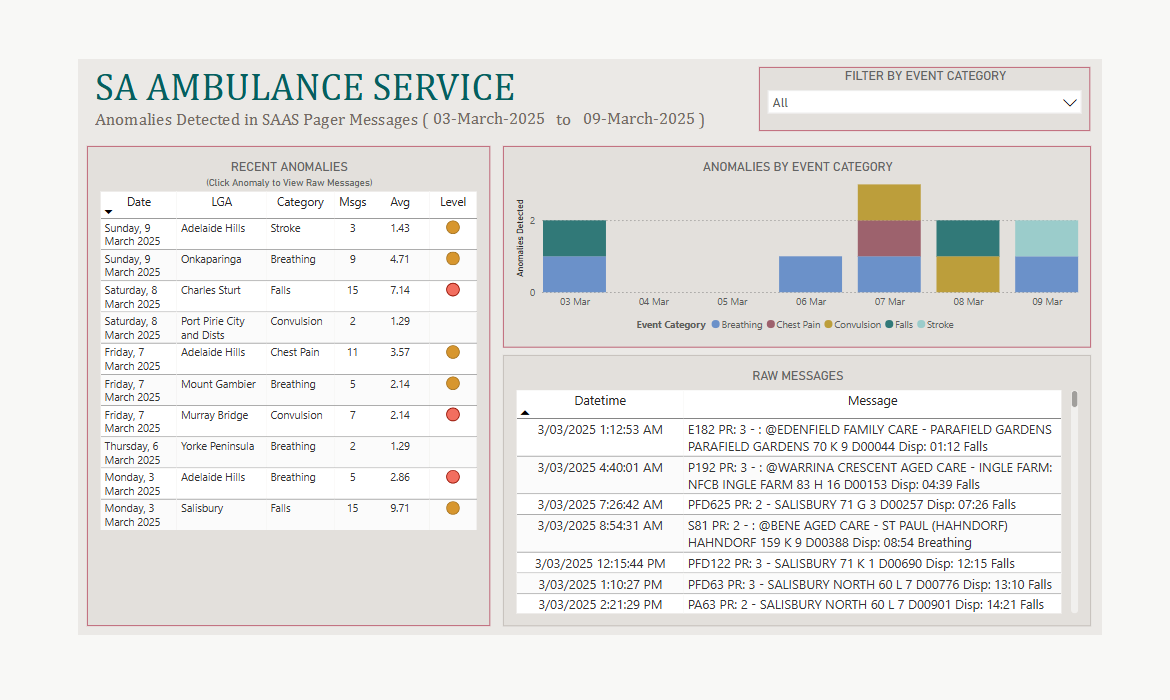
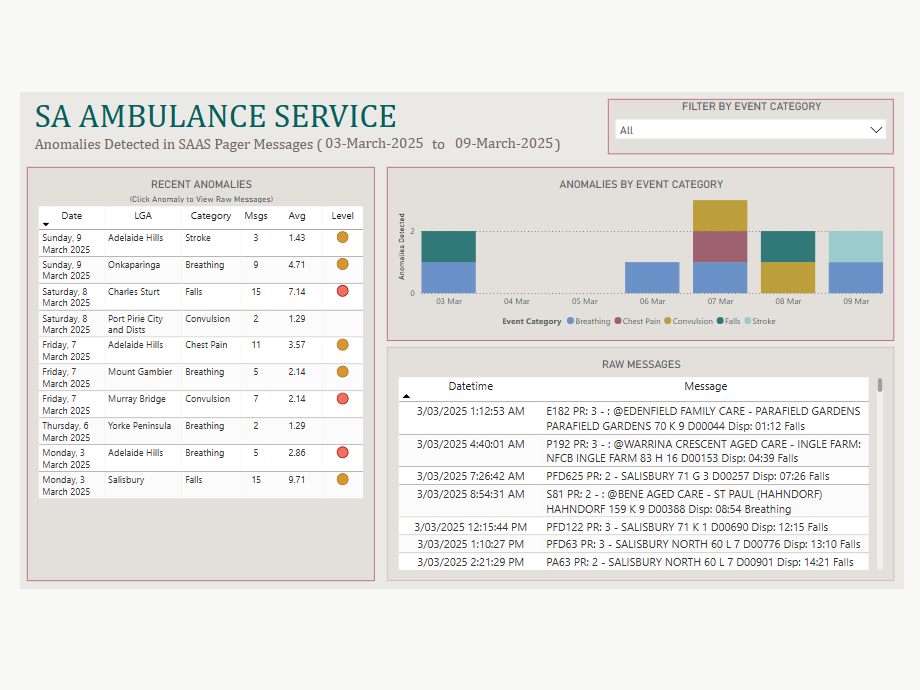
Add anomaly detection dashboard project

Changed region(s): [[0.0304, 0.0913, 0.9739, 0.913]]

diff --git a/_posts/2025-03-10-SAAS-Callout-Anomalies-Dashboard.md b/_posts/2025-03-10-SAAS-Callout-Anomalies-Dashboard.md
@@ -1,0 +1,65 @@
+---
+layout: post
+title: SA Ambulance Service Anomaly Dashboard
+image: "/posts/SAAS-anomaly-dashboard.png"
+tags: [Dashboard, Power BI, Data Visualisation, Anomaly Detection, Isolation Forest]
+---
+
+## Project Overview
+The **SA Ambulance Service Anomalies Dashboard** is a Power BI dashboard that highlights **potential** anomalies detected over the previous 7 days. Behind the scenes, we use a Machine Learning algorithm called an "Isolation Forest" for detecting anomolous spikes in daily callouts per Local Government Area, and type of event (eg, "Falls", "Chest Pain", "Breathing"). The aim of this dashboard is to quickly show recent anomalies in South Australia, and the raw pager messages which triggered/contributed to the anomaly.
+
+---
+
+## The Dashboard
+<iframe title="seven-day-anomaly-dashboard" width="1090" height="650" src="https://app.powerbi.com/view?r=eyJrIjoiZTg4MDM1NGEtOWQ5ZS00ZWFjLWEzODktOWM1ZmZjZjFmNzI4IiwidCI6ImMwNmY1NDJlLTQ3NWEtNDUzMy1iMTM1LTVkMjI3MDk4ZTViYyJ9" frameborder="0" allowFullScreen="true"></iframe>
+
+---
+
+## Target Users & Audience
+This dashboard serves a wide range of stakeholders, including:
+- **Governmental Agencies** - for resource allocation and emergency response planning.
+- **Local Governments** - to assess healthcare demands and infrastructure needs.
+- **Insurance Companies & Health Providers** - for risk assessment and policy adjustments.
+- **General Public** - for awareness of emergency response trends in their local community.
+
+---
+
+## Business Value & Real-World Impact
+### **1. Enhanced Decision-Making & Operational Efficiency**
+- **Timely Insights**: Unlike traditional health reports that rely on aggregated and delayed data, this dashboard provides near real-time **visibility into emergency trends**.
+- **Geographic & Population-Based Analysis**: By **mapping suburb-level callout data to local government areas (LGAs)**, the dashboard **integrates population statistics**, allowing for **per capita comparisons and deeper analysis**.
+- **Trend Identification**: Health agencies can **detect patterns in ambulance callouts**, helping to anticipate healthcare service demands.
+
+
+### **2. Automation & Efficiency Gains**
+- **Automated Data Collection & Transformation**: A **data pipeline scrapes a live-feed of pager messages daily**, cleaning and transforming them into structured tabular formats.
+- **Dynamic Filtering & Visualisation**: Users can **drill down by region, time period, or callout type**, enabling quick insights without manual data manipulation.
+- **Elimination of Data Silos**: This model centralises disparate datasets (pager messages, callout codes, station codes, geographic boundaries and population data) into a single source of truth.
+
+
+### **3. Differentiation from Existing Solutions**
+- **Comparative Analytics**: The **integration of local government and population data** enables **per capita comparisons**, making it easier to identify areas with disproportionately high emergency response demands.
+- **Scalability & Long-Term Value**: Unlike static reports, this dashboard continues to evolve with ongoing data collection, making historical and predictive trend analysis possible.
+
+---
+
+## Technical Implementation
+### **Core Technologies & Methods**
+- **Text Parsing & Data Structuring**: Converts **unstructured pager messages into structured datasets**, making them queryable for analytics.
+- **Ensemble Anomaly Detection**: Uses a combination of **rolling time-series statistics** and an **isolation forest** to detect anomolous spikes in daily callouts for each event type in each geographic area.
+
+
+### **Challenges & Solutions**
+- **Temporal Distribution**: Exploratory Data Analysis showed a significant difference between weekday and weekend callout distributions. Similarly with weekends, public holidays display different behaviour to "workdays". To help the isolation forest understand these differences, we engineered a "non-workday" feature to highlight weekends and public holidays.
+- **Handling Imbalanced Populations**: Differences between Local Government populations can skew the raw volume data. To overcome this, we've **normalised callouts on a per capita basis** to allow direct comparison between geographical regions.
+
+
+### **Deployment & Scalability Considerations**
+- **Deployed as a Power BI Dashboard** – accessible via **Power BI Service** for secure sharing and collaboration.
+- **Slim Data Model** - Focusing only on anomalies detected in the past seven days, this dashboard remains lightweight whilst providing the most **up-to-date** information for stakeholders.
+
+
+## Future Applications & Expansions
+- **Real-Time Anomaly Detection**: Increasing the **data collection frequency (e.g., every 15 minutes or hour)** could enable **near real-time alerts for healthcare providers**.
+  - Example: "Anomalous trend in **breathing problems** reported in **XYZ City Council** in the **past hour**."
+- **Integration with Predictive Analytics & AI**: Incorporating machine learning models could enhance **forecasting capabilities**, potentially allowing hospitals to **anticipate ambulance surges before they occur**.
